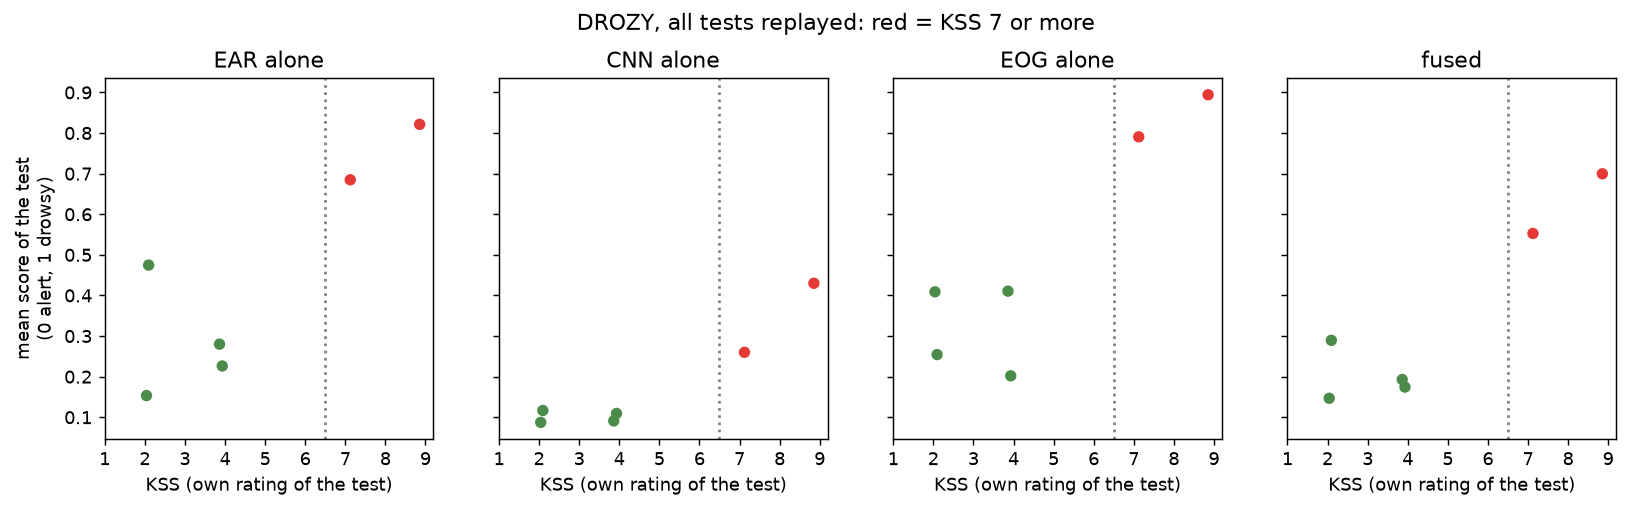
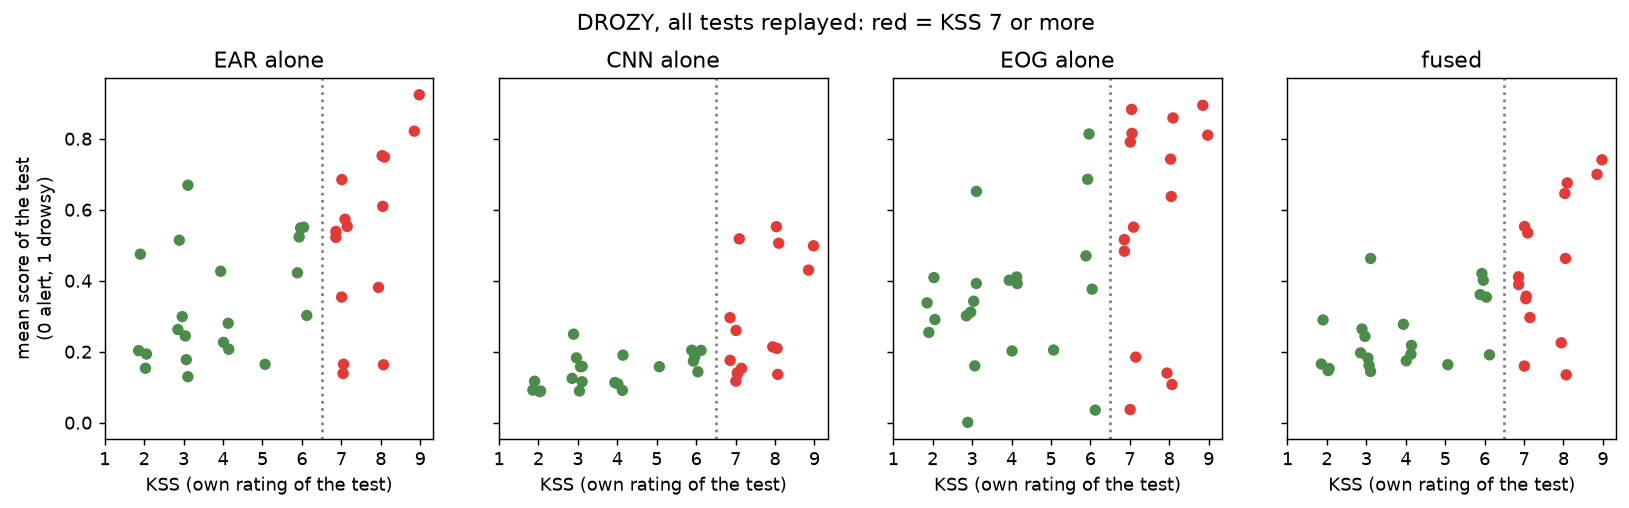
DROZY: all 36 tests replayed (EAR + CNN + EOG fused); README results with single-branch comparison, misses and false warnings; results plot

diff --git a/README.md b/README.md
@@ -118,19 +118,22 @@ The EU rule for drowsiness warnings (Delegated Regulation 2021/1341, Annex I Par
   The EOG model was trained on a different dataset (DD-Database) and a different electrode pair and is used here without any retraining.
   **EOG alone, all 36 tests** (mean score of a test vs the person's KSS): Spearman 0.41 (p = 0.012), AUC 0.71 for KSS 7 or more vs 6 or less (15 vs 21 tests). A moderate trend, 36 points, not a result to quote as accuracy.
   The person's normal blink pattern for tests 2 and 3 comes from that person's earlier test (an alert recording made before, like a calibration drive); test 1 learns from its own first 5 minutes and so scores only after 7.5 minutes.
-  **Full 10-minute replays of 6 tests** (share of the test in each fused level; one run each, tuning nothing on them):
+  **All 36 tests replayed in full** (`python -m drowsiness.fusion.drozy_eval`; nothing tuned on them; per-test table and plot in `docs/drozy_results.png`).
+  One number per test, then the AUC for KSS 7 or more (15 tests) against 6 or less (21 tests) and the Spearman correlation with KSS:
 
-  | test | KSS | ALERT | EARLY WARNING | DROWSY and above |
-  |---|---|---|---|---|
-  | 3-1 | 2 | 100 % | 0 | 0 |
-  | 6-1 | 2 | 69 % | 30 % | 0 |
-  | 3-3 | 4 | 100 % | 0 | 0 |
-  | 4-1 | 4 | 98 % | 1 % | 0 |
-  | 6-3 | 7 | 14 % | 76 % | 9 % |
-  | 4-3 | 9 | 6 % | 57 % | 37 % (32 % DROWSY, 4 % MICROSLEEP, 1 % SLEEP) |
+  | measure | AUC | Spearman |
+  |---|---|---|
+  | EAR alone | 0.74 | +0.54 |
+  | CNN alone | 0.80 | +0.68 |
+  | EOG alone | 0.71 | +0.37 |
+  | **fused score** | 0.79 | +0.59 |
+  | share of time in DROWSY or worse | 0.80 | +0.55 |
 
-  The three alert tests stay mostly ALERT, the two sleepy ones are mostly in a warning state. Six tests of four people are an illustration, not an accuracy: nothing here says how many
-  false alarms or misses a driver would see. Closure timings on near-infrared video of 12-px eyes have no per-frame ground truth either.
+  Time in each level: tests with KSS 6 or less spend 83 % of the time in ALERT and 0 % in DROWSY or worse; tests with KSS 7 or more spend 42 % in ALERT and 14 % in DROWSY or worse.
+  What this says, plainly:
+  * The fused score **does not beat the best single branch** (CNN alone, 0.80 against 0.79). With 36 tests the difference is noise, so fusion is not shown to help on this data; the reasons for it are robustness (a lost camera or electrode) and the microsleep rules, which this label cannot test.
+  * **Misses:** 5 of the 15 sleepy tests stay mostly ALERT (5-2, 5-3, 10-3, 14-2, 14-3), two of them (5-3, 14-2) for 100 % of the time. **False warnings:** the alert test 6-2 spends 80 % of the time in EARLY WARNING.
+  * One self-rating per 10-minute test is a coarse label (a person can be sleepy and still keep their eyes open), the faces are small near-infrared pictures, and the EOG model comes from another dataset. This is a first honest measurement, not a result to present as accuracy.
   The EOG branch cannot trigger a microsleep (an eye *event* is not an eye *closure*). EEG is not used yet.
 * Everything is tested on a few people at most (the camera video is a single person). The branches have not been compared against a ground truth of real drowsy driving.
 
